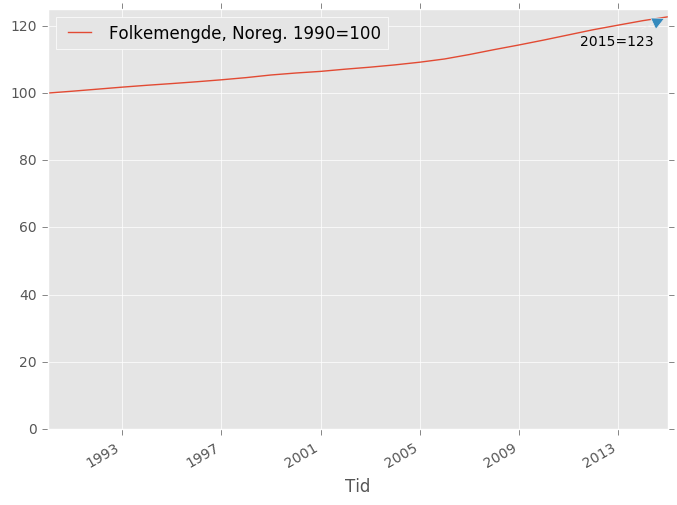
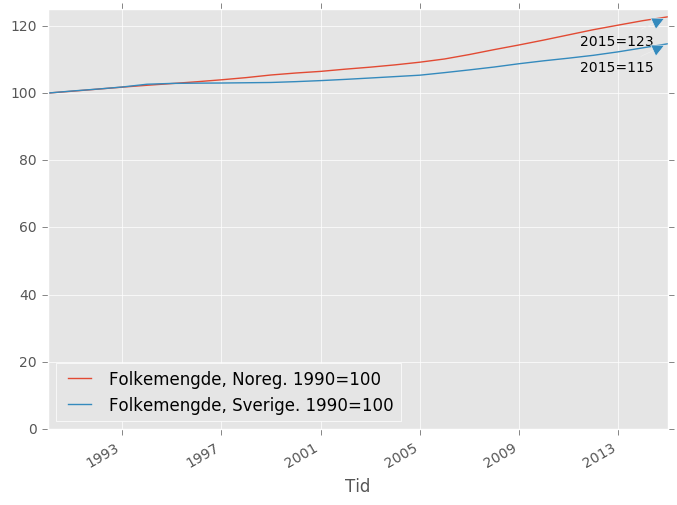
update..

diff --git a/folkemengde.py b/folkemengde.py
@@ -22,14 +22,37 @@ def folkemengde():
     frame[u'folkemengde'] = pd.to_numeric(frame[u'value'])
     return frame
 
+def sverige_folkemengde():
+    url = 'http://api.scb.se/OV0104/v1/doris/en/ssd/BE/BE0101/BE0101A/BefolkningNy'
+    payload = {"query": [
+        {"code": "ContentsCode", "selection":
+         {"filter": "item", "values": ["BE0101N1"]}},
+        {"code": "Region", "selection":
+         {"filter": "item", "values": ["00"]}},
+        {"code": "Tid", "selection":
+         {"filter": "all", "values": ["*"]}}],
+               "response": {"format": "json-stat"}}
+    data = requests.post(url, json = payload)
+    result = pyjstat.from_json_stat(data.json(object_pairs_hook=OrderedDict))
+    frame = result[0]
+    frame[u'år'] = pd.to_numeric(frame[u'year']) 
+    frame[u'folkemengde_sverige'] = pd.to_numeric(frame[u'value'])
+    return frame
+
 if __name__=="__main__":
+    sv = sverige_folkemengde()
     folk = folkemengde()
     folk = folk[folk[u'år'] >= 1990]
-    folk[u'Tid'] = pd.to_datetime(folk[u'år'], format='%Y')
-    folk.index = folk[u'Tid']
+    m = pd.merge(folk, sv, on=u'år')
+    m[u'Tid'] = pd.to_datetime(m[u'år'], format='%Y')
+    m.index = m[u'Tid']
     desc = 'Folkemengde, Noreg. 1990=100'
-    folk[desc] = (100.0 * folk.folkemengde) / folk.folkemengde.values[0]
-    ss = folk.loc[:, [desc]]
+    m[desc] = (100.0 * m.folkemengde) / m.folkemengde.values[0]
+
+    desc2 = 'Folkemengde, Sverige. 1990=100'
+    m[desc2] = (100.0 * m.folkemengde_sverige) / m.folkemengde_sverige.values[0]
+
+    ss = m.loc[:, [desc, desc2]]
     ss.index = ss.index.astype(datetime.datetime)
     plot = ss.plot()
     (xmin, xmax, _, ymax) = plot.axis()
@@ -38,6 +61,13 @@ if __name__=="__main__":
     ax = fig.axes[0]
     txt = "%4d=%.f" % (ss.index[-1].year, ss[desc].values[-1])
     ax.annotate(txt, (mdates.date2num(ss.index.values[-1]), ss[desc].values[-1]),
+                xytext=(-10, -20),
+                textcoords='offset points',
+                ha='right',
+                va='baseline',
+                arrowprops={"arrowstyle" : '-|>', "mutation_scale":500**.5})
+    txt = "%4d=%.f" % (ss.index[-1].year, ss[desc2].values[-1])
+    ax.annotate(txt, (mdates.date2num(ss.index.values[-1]), ss[desc2].values[-1]),
                 xytext=(-10, -20),
                 textcoords='offset points',
                 ha='right',
